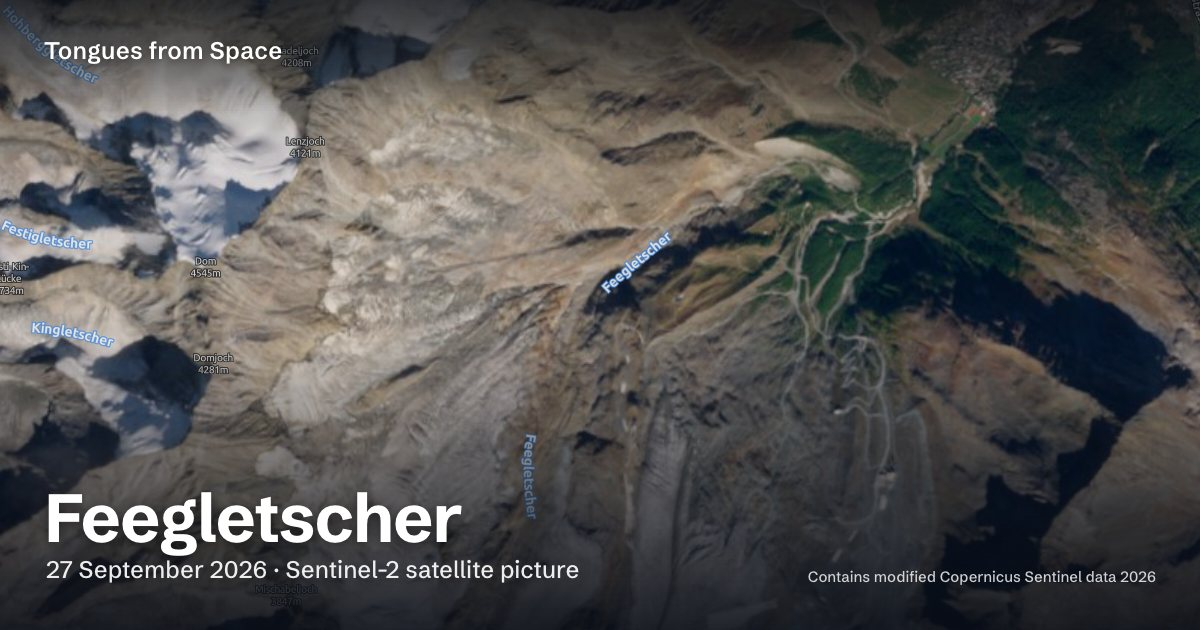
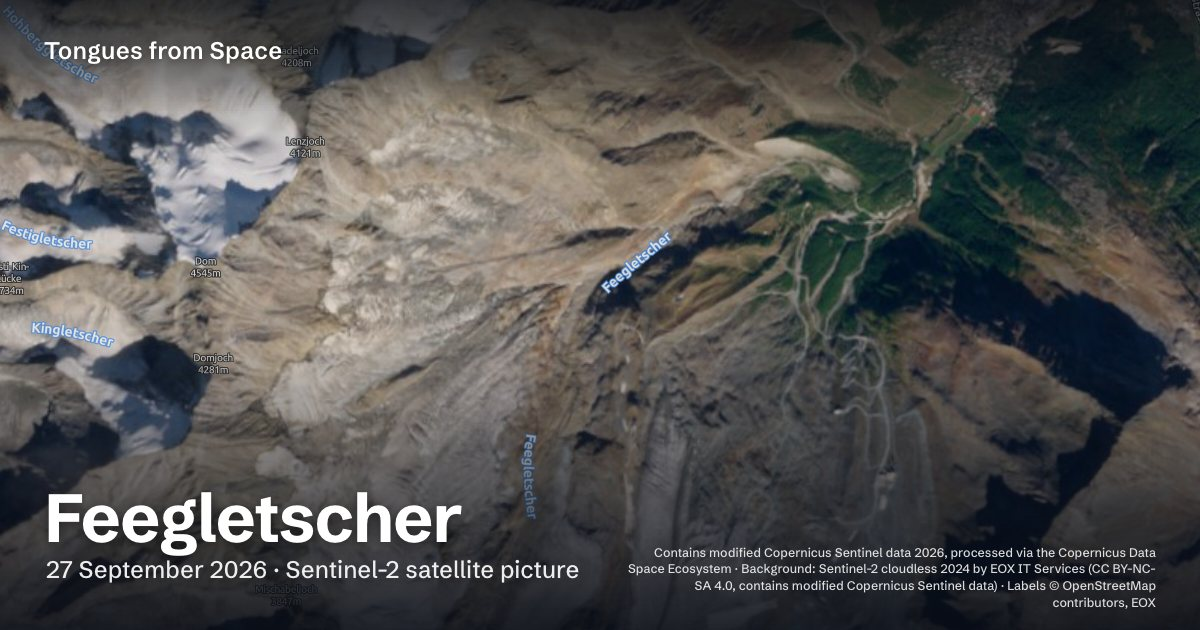
Social pictures carry the page's full credit line (Copernicus, EOX background, OpenStreetMap labels)

Changed region(s): [[0.5242, 0.8746, 0.9867, 0.9651]]

diff --git a/scripts/build_og_images.py b/scripts/build_og_images.py
@@ -3,8 +3,8 @@
 
     python3 scripts/build_og_images.py [--base https://tonguesfromspace.org] [--only aletsch,gorner]
 
-For each glacier of Switzerland it opens the real explorer (embed view, map, newest year), hides the controls, adds the name, the date of the scene and the Copernicus credit
-(drawn by the page itself, in its own typeface) and saves the picture. So the picture is the real Sentinel-2 scene, never a rendering, and shows the glacier of the link.
+For each glacier of Switzerland it opens the real explorer (embed view, map, newest year), hides the controls, adds the name, the date of the scene and the page's own credit line
+(Copernicus, the EOX background, OpenStreetMap labels: the picture shows all three; drawn by the page itself, in its own typeface) and saves the picture. So the picture is the real Sentinel-2 scene, never a rendering, and shows the glacier of the link.
 build_site.py uses images/og/<slug>.jpg for the page /switzerland/<slug>/ (og:image) and images/og/index.json for the text of the picture.
 
 Needs: Playwright with Google Chrome (python3 -m playwright install chrome), Pillow, and a relay with a cache: the public site by default (the scenes of past summers are cached,
@@ -26,7 +26,7 @@ OVERLAY = """(info) => {
   d.innerHTML = '<div style="position:absolute;left:44px;top:34px;font-size:24px;font-weight:600;letter-spacing:.01em;text-shadow:0 1px 8px rgba(0,0,0,.5)">Tongues from Space</div>'
     + '<div style="position:absolute;left:44px;bottom:78px;font-size:68px;line-height:1;font-weight:700;letter-spacing:-.02em;text-shadow:0 2px 14px rgba(0,0,0,.55)"></div>'
     + '<div style="position:absolute;left:46px;bottom:42px;font-size:24px;font-weight:500;opacity:.92"></div>'
-    + '<div style="position:absolute;right:44px;bottom:42px;font-size:15px;font-weight:500;opacity:.8;text-align:right"></div>';
+    + '<div style="position:absolute;right:44px;bottom:18px;width:540px;font-size:12.5px;line-height:1.35;font-weight:500;opacity:.85;text-align:right"></div>';
   const [, name, sub, credit] = d.children;
   name.textContent = info.title; sub.textContent = info.sub; credit.textContent = info.credit;
   document.body.appendChild(d);
@@ -70,7 +70,7 @@ def main():
             time.sleep(8)      # the picture of the year arrives and fades in
             info = pg.evaluate("""() => { const y = state.one, sc = state.available[y] || {}, g = currentGlacier();
               const d = sc.date ? new Date(sc.date + 'T12:00:00Z').toLocaleDateString('en-GB', {day: 'numeric', month: 'long', year: 'numeric', timeZone: 'UTC'}) : String(y);
-              const full = g.local || g.name; return {year: y, date: sc.date || null, name: g.name, local: full, title: full.replace(/\\s*\\(.*?\\)/g, ''), sub: d + ' \\u00b7 Sentinel-2 satellite picture', credit: 'Contains modified Copernicus Sentinel data ' + y}; }""")
+              const full = g.local || g.name; return {year: y, date: sc.date || null, name: g.name, local: full, title: full.replace(/\\s*\\(.*?\\)/g, ''), sub: d + ' \\u00b7 Sentinel-2 satellite picture', credit: ((document.getElementById('credits') || {}).innerText || 'Contains modified Copernicus Sentinel data ' + y).replace(/\\s+/g, ' ').trim()}; }""")
             pg.add_style_tag(content=HIDE)
             pg.evaluate(OVERLAY, info)
             time.sleep(0.8)
